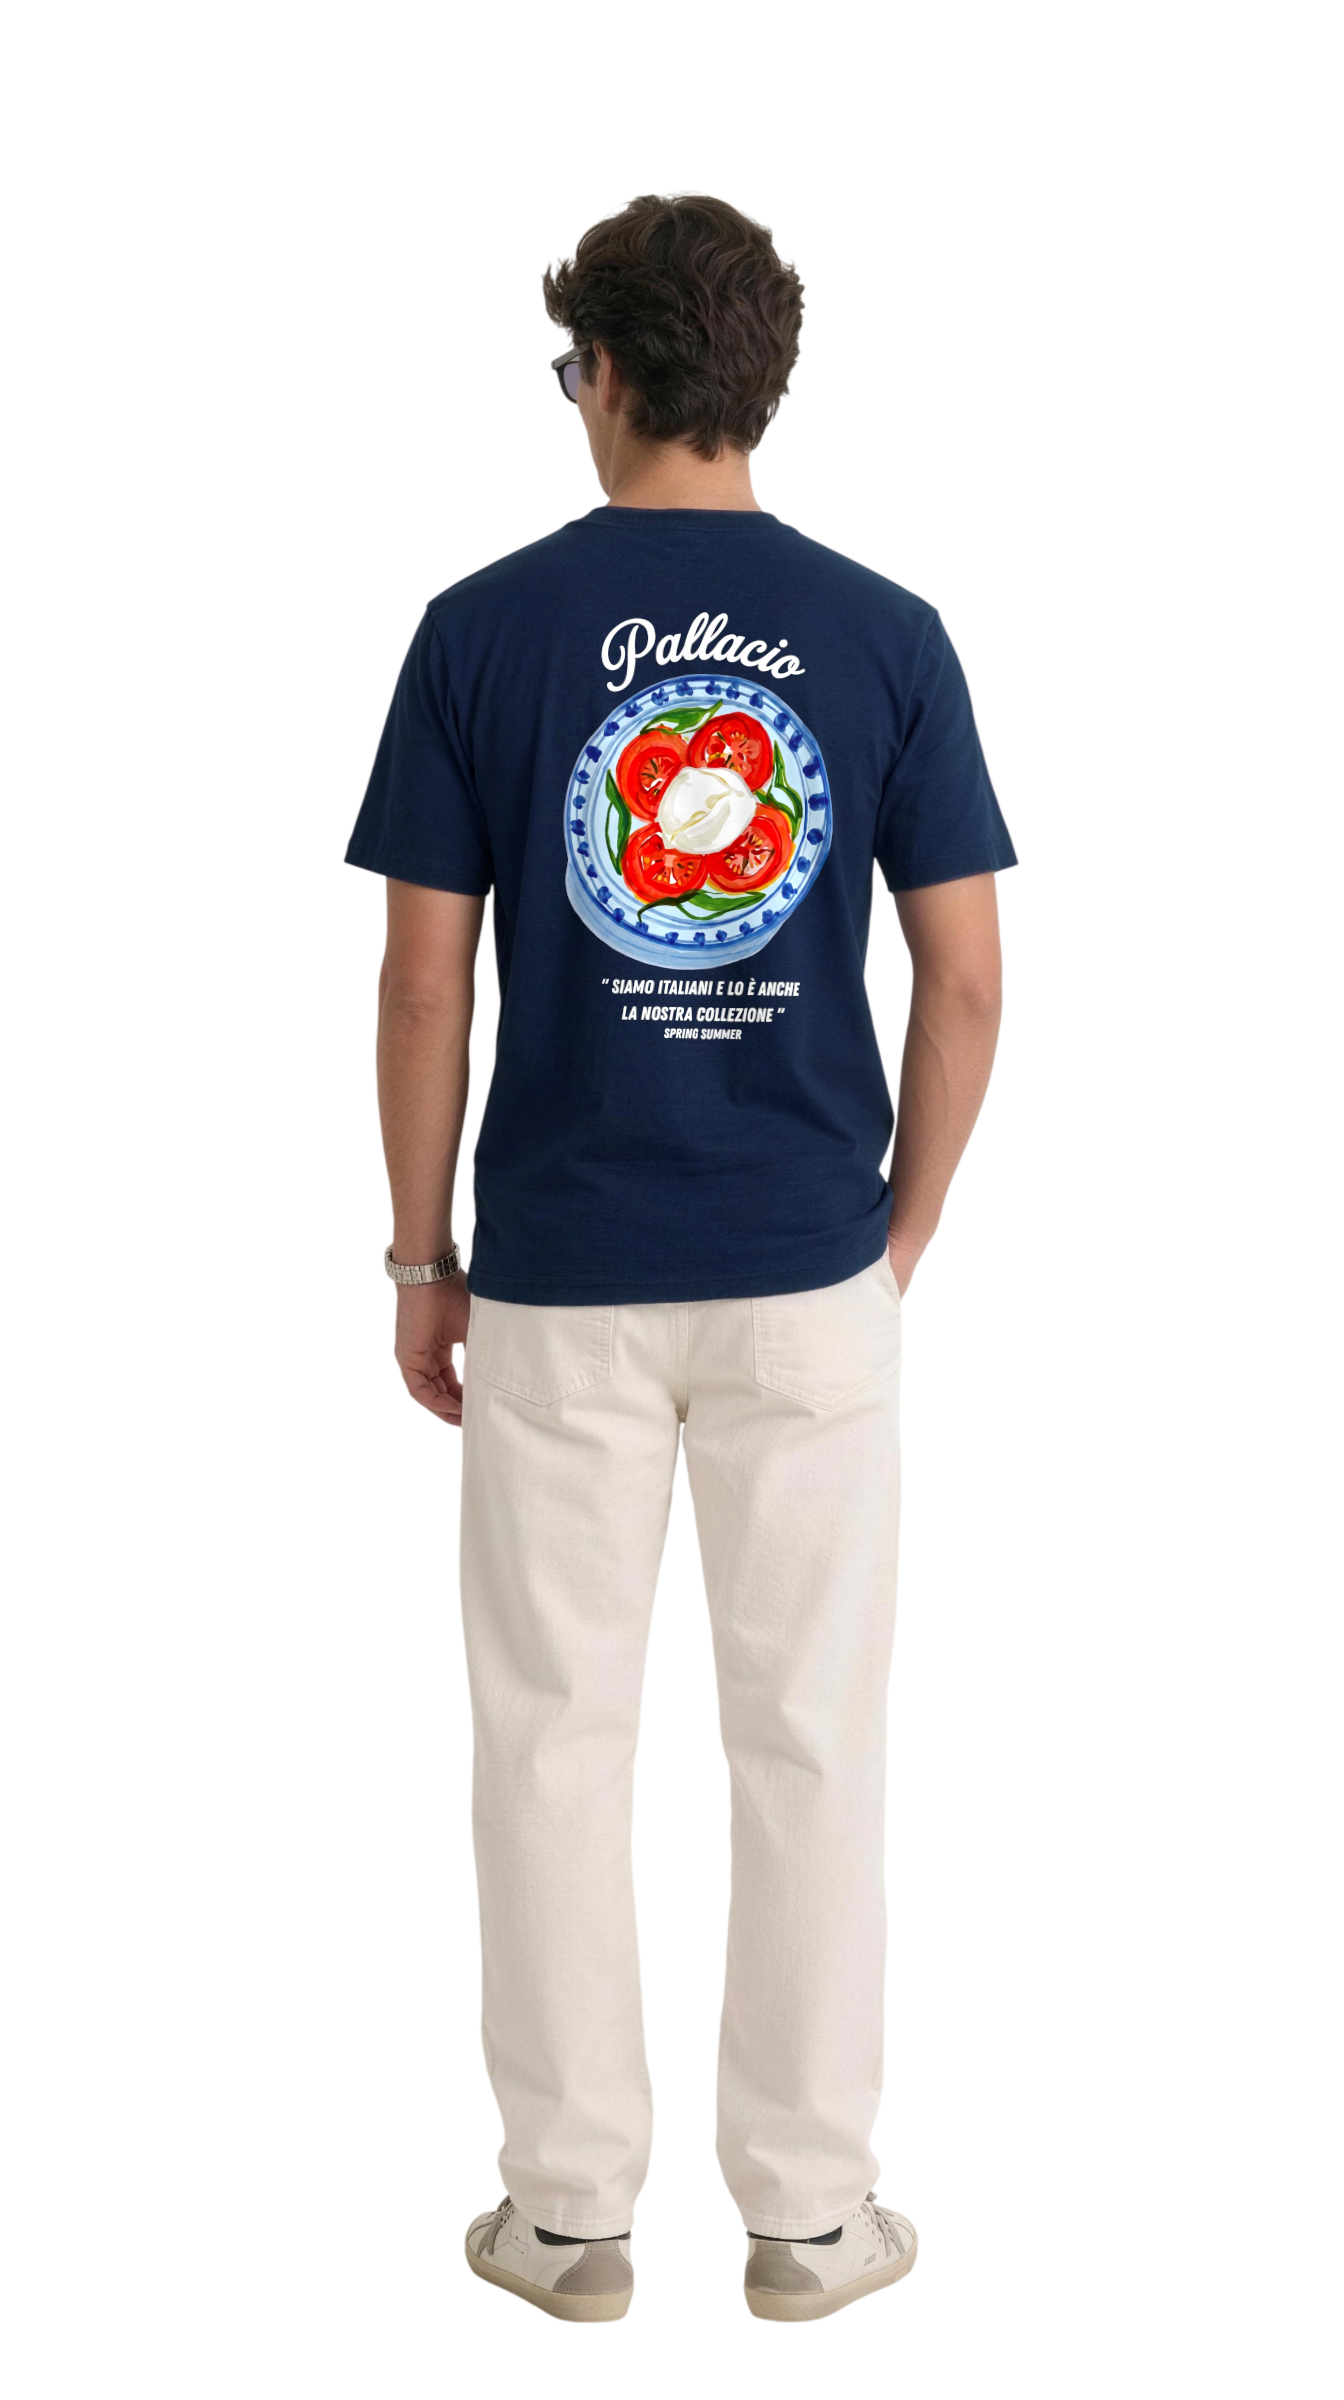
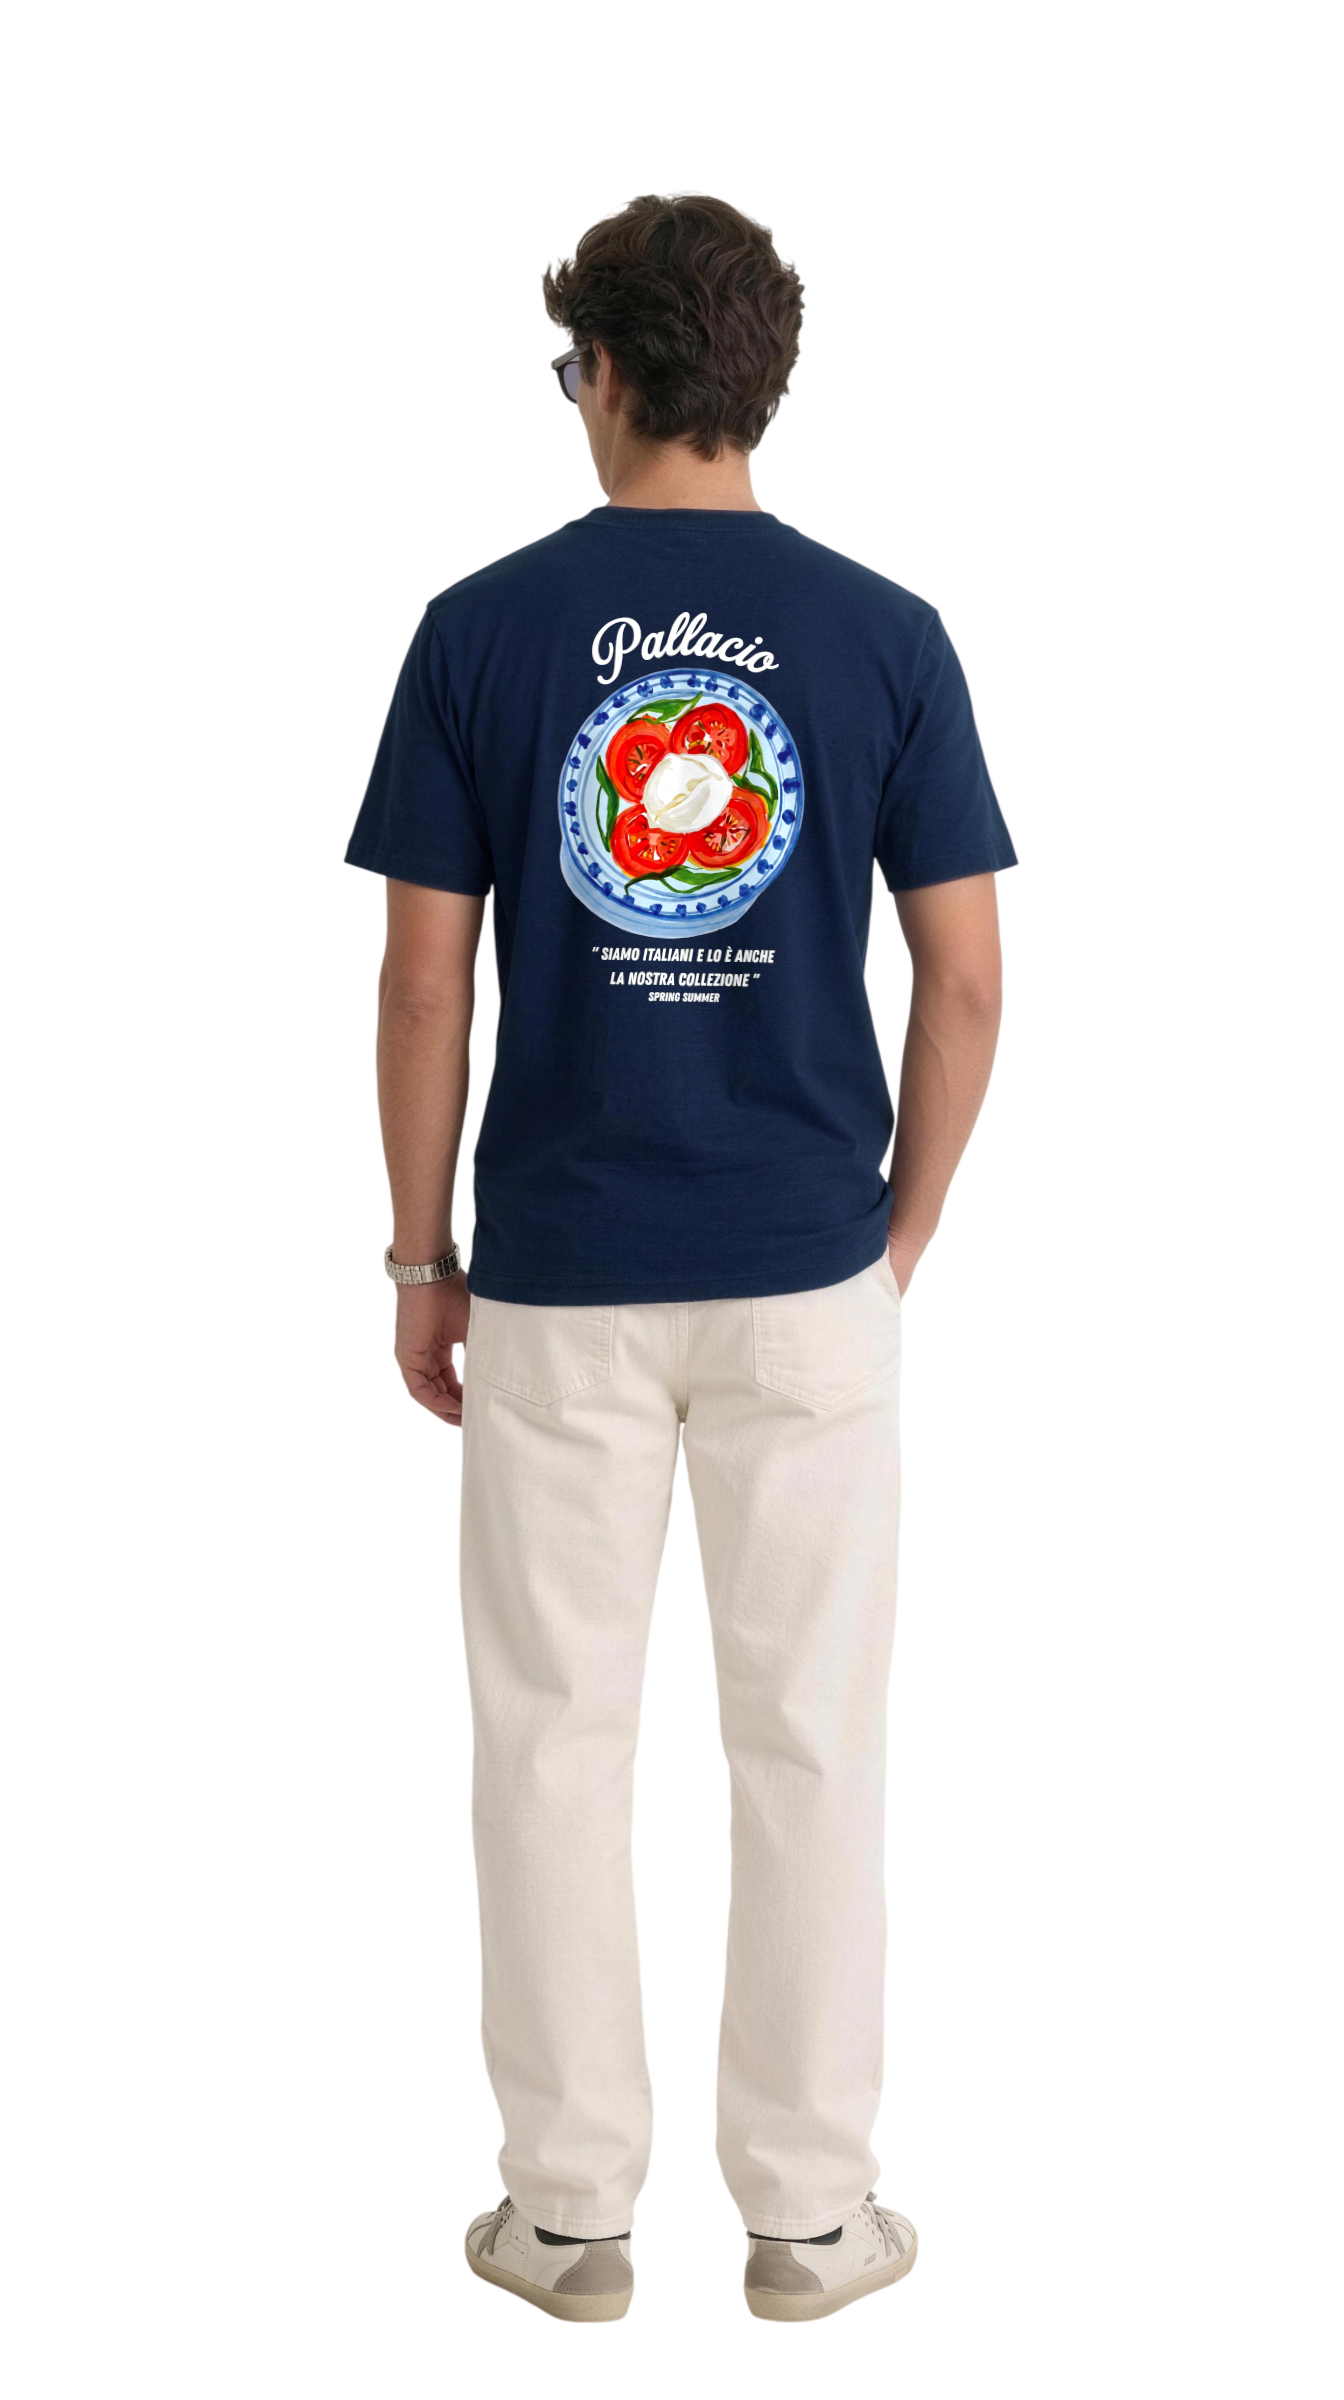
v3.1: costas com centro, topo e largura iguais à v2 aprovada (antes desviava até 42 px); 16 fotos da CAPRESE
Claude-Session: https://claude.ai/code/session_015dR8M9wZ7z7a7xaM1gVKNK

Changed region(s): [[0.4062, 0.25, 0.625, 0.4375]]

diff --git a/automacao-estampas/motor_v3.py b/automacao-estampas/motor_v3.py
@@ -624,7 +624,8 @@ def _x_de_f(pf: Pontos, f: float, elipse: Elipse = _ELIPSE) -> float:
 
 
 def mapa_corpo_v31(pm: Pontos, pf: Pontos, xs_f: np.ndarray, ys_f: np.ndarray, ancora_m: Tuple[float, float],
-                   y_ancora_f: float, elipse: Elipse = _ELIPSE):
+                   y_ancora_f: float, elipse: Elipse = _ELIPSE, x_ancora_f: Optional[float] = None,
+                   escala_mult: float = 1.0):
     """Igual ao mapa_corpo_v2 (elipse + escala única k), mas a altura da âncora na foto vem de fora
     (referência aprovada) e o mapa é calculado nos pontos xs_f, ys_f (grade supersampled)."""
     giro = elipse.giro_da_gola((pf.gola_x - pf.cx) / pf.raio)
@@ -633,13 +634,15 @@ def mapa_corpo_v31(pm: Pontos, pf: Pontos, xs_f: np.ndarray, ys_f: np.ndarray, a
     meia = np.sqrt(np.cos(giro) ** 2 + (elipse.prof * np.sin(giro)) ** 2)
     xs = pf.cx + R * (np.sin(ts) * np.cos(giro) + elipse.prof * np.cos(ts) * np.sin(giro)) / meia
     arcos = R * elipse.f * elipse.smax / meia
-    k = float((R / meia) * elipse.smax / pm.raio)
+    k = float((R / meia) * elipse.smax / pm.raio) * escala_mult
     comp_m = pm.p["barra_c"][1] - pm.p["gola"][1]
     comp_f = pf.p["barra_c"][1] - pf.p["gola"][1]
     kv = comp_f / comp_m
     xa_m, ya_m = ancora_m
     arco_ancora = kv * (xa_m - pm.gola_x)
     ordem = np.argsort(xs)
+    if x_ancora_f is not None:                     # centro da arte na posição de referência (v2 aprovada)
+        arco_ancora = float(np.interp(x_ancora_f, xs[ordem], arcos[ordem]))
     arco_x = np.interp(xs_f, xs[ordem], arcos[ordem], left=np.nan, right=np.nan)
     mx = xa_m + (arco_x - arco_ancora) / k
     (oex, oey), (odx, ody) = pf.p["ombro_e"], pf.p["ombro_d"]
@@ -652,7 +655,7 @@ def mapa_corpo_v31(pm: Pontos, pf: Pontos, xs_f: np.ndarray, ys_f: np.ndarray, a
 
 def render_corpo(arte, A_arte_mockup: np.ndarray, pm: Pontos, pf: Pontos, tamanho_foto: Tuple[int, int],
                  caixa_foto: Tuple[int, int, int, int], ancora_m: Tuple[float, float], y_ancora_f: float,
-                 ss: int = 3) -> np.ndarray:
+                 ss: int = 3, x_ancora_f: Optional[float] = None, escala_mult: float = 1.0) -> np.ndarray:
     """Estampa grande: do PNG oficial direto para a foto (foto -> mockup -> arte), em grade ss×
     e reduzida por área. Uma única redução prévia da arte (área) para ~ss× o tamanho final."""
     W, H = tamanho_foto
@@ -663,7 +666,7 @@ def render_corpo(arte, A_arte_mockup: np.ndarray, pm: Pontos, pf: Pontos, tamanh
     gx = x0 + (np.arange((x1 - x0) * ss, dtype=np.float32) + 0.5) / ss
     gy = y0 + (np.arange((y1 - y0) * ss, dtype=np.float32) + 0.5) / ss
     XX, YY = np.meshgrid(gx, gy)
-    mx, my, k = mapa_corpo_v31(pm, pf, XX, YY, ancora_m, y_ancora_f)
+    mx, my, k = mapa_corpo_v31(pm, pf, XX, YY, ancora_m, y_ancora_f, x_ancora_f=x_ancora_f, escala_mult=escala_mult)
     p = min(1.0, s * k * ss * 1.25)                      # px da arte reduzida por px da arte original
     if p < 1.0:
         a = cv2.resize(a, (max(1, round(a.shape[1] * p)), max(1, round(a.shape[0] * p))), interpolation=cv2.INTER_AREA)

diff --git a/automacao-estampas/amostra_v31.py b/automacao-estampas/amostra_v31.py
@@ -108,9 +108,23 @@ for n in sys.argv[2].split(','):
         ancora_m = tuple((A @ np.array([arte.size[0] / 2, 0, 1]))[:2])      # topo-centro da arte
         xs = [v[0] for v in pf.p.values()]; ys = [v[1] for v in pf.p.values()]
         cf = (max(0, int(min(xs)) - 40), max(0, int(min(ys)) - 60), min(W, int(max(xs)) + 40), min(H, int(max(ys)) + 40))
-        lay = render_corpo(arte, A, pm, pf, (W, H), cf, ancora_m, y_ancora_f=REF[n]['topo'])
+        # posição e largura de referência = v2 aprovada (centro, topo e largura), foto por foto.
+        # 1ª passada mede a largura que a geometria dá; 2ª corrige só a escala para igualar a v2.
+        xr = (REF[n]['x0'] + REF[n]['x1']) / 2.0
+        lay = render_corpo(arte, A, pm, pf, (W, H), cf, ancora_m, y_ancora_f=REF[n]['topo'], x_ancora_f=xr)
+        xs_t = np.nonzero(lay[..., 3].max(0) > 0.5)[0]
+        larg = float(xs_t.max() - xs_t.min()) if len(xs_t) else 1.0
+        esc = (REF[n]['x1'] - REF[n]['x0']) / larg if larg > 1 else 1.0
+        for _ in range(2):                                     # centro da tinta final = centro da v2
+            lay = render_corpo(arte, A, pm, pf, (W, H), cf, ancora_m, y_ancora_f=REF[n]['topo'], x_ancora_f=xr, escala_mult=esc)
+            xs_t = np.nonzero(lay[..., 3].max(0) > 0.5)[0]
+            dx = (REF[n]['x0'] + REF[n]['x1']) / 2.0 - (xs_t.min() + xs_t.max()) / 2.0
+            if abs(dx) < 2:
+                break
+            xr += dx
         res = compor_v31(base, camisa, pele, lay, tuple(np.array(CM[c]) / 255.0))
-        detalhe = dict(tipo='estampa grande (elipse do tronco, altura v2)')
+        detalhe = dict(tipo='estampa grande (elipse do tronco; centro, topo e largura = v2 aprovada)',
+                       ajuste_escala=round(float(esc), 3))
     if info is None:
         tinta = np.zeros((H, W), bool)
     else:

diff --git a/automacao-estampas/MUDANCAS_V31.md b/automacao-estampas/MUDANCAS_V31.md
@@ -20,8 +20,10 @@
 - **Luz só suave e trama de 0,5%:** a tinta acompanha a luz da camiseta sem manchar as letras.
 
 ## Estampa grande das costas
-- **Altura igual à v2 aprovada:** o topo da estampa fica onde estava na v2, foto por foto
-  (`dados/referencia_v2_posicao.json`). Tamanho e proporção continuam os da v3, sem mudança.
+- **Posição igual à v2 aprovada:** topo, centro e largura da estampa ficam iguais aos da v2, foto
+  por foto (`dados/referencia_v2_posicao.json`), com tolerância de ±4 px. Na primeira versão da
+  v3.1 só a altura seguia a v2: o centro desviava até 42 px (corpo virado) e a estampa ficava de 3%
+  a 10% maior. A proporção da arte não muda; a curvatura, a luz e a textura continuam da v3.1.
 - **Dobras localizadas:** a estampa só se desloca onde há dobra de verdade, proporcional à força
   da dobra e no máximo 2 px. Antes, toda foto recebia o mesmo deslocamento máximo.
 - **Luz real da camiseta:** o cálculo foto ÷ cor do tecido ganhou uma margem para tecido escuro,
